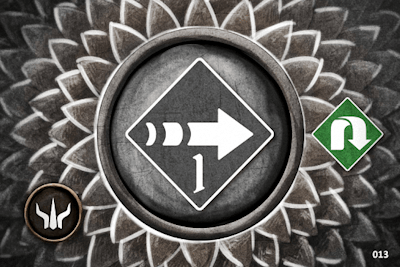
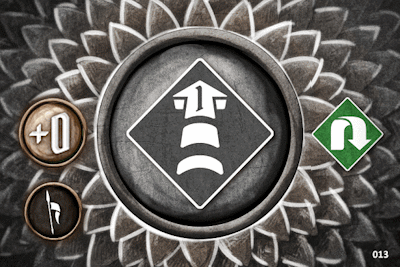
gh2e special faction support

diff --git a/frosthaven_assistant/lib/Layout/menus/modifier_deck_menu.dart b/frosthaven_assistant/lib/Layout/menus/modifier_deck_menu.dart
@@ -31,6 +31,7 @@ import '../../Resource/state/game_state.dart';
 import '../../Resource/ui_utils.dart';
 import '../../services/service_locator.dart';
 import '../counter_button.dart';
+import 'gh2e_faction_amd_card_menu.dart';
 
 class ModifierDeckMenu extends StatefulWidget {
   const ModifierDeckMenu({super.key, required this.name});
@@ -444,7 +445,12 @@ class ModifierDeckMenuState extends State<ModifierDeckMenu> {
                                     icon:
                                         Image.asset("assets/images/demons.png"),
                                     onPressed: () {
-                                      //todo: open menu
+                                      openDialog(
+                                          context,
+                                          GH2eFactionAMDCardMenu(
+                                            faction: "Demons",
+                                            name: widget.name,
+                                          ));
                                     },
                                   ),
                                 if (isCharacter &&
@@ -454,7 +460,12 @@ class ModifierDeckMenuState extends State<ModifierDeckMenu> {
                                     icon: Image.asset(
                                         "assets/images/merchant-guild.png"),
                                     onPressed: () {
-                                      //todo: open menu
+                                      openDialog(
+                                          context,
+                                          GH2eFactionAMDCardMenu(
+                                            faction: "Merchant-Guild",
+                                            name: widget.name,
+                                          ));
                                     },
                                   ),
                                 if (isCharacter &&
@@ -464,7 +475,12 @@ class ModifierDeckMenuState extends State<ModifierDeckMenu> {
                                     icon: Image.asset(
                                         "assets/images/military.png"),
                                     onPressed: () {
-                                      //todo: open menu
+                                      openDialog(
+                                          context,
+                                          GH2eFactionAMDCardMenu(
+                                            faction: "Military",
+                                            name: widget.name,
+                                          ));
                                     },
                                   ),
                                 CounterButton(
@@ -573,7 +589,7 @@ class ModifierDeckMenuState extends State<ModifierDeckMenu> {
                                   CounterButton(
                                       notifier:
                                           deck.getRemovable("vi-enfeeble"),
-                                      command: ChangeEmpowerCommand.deck(
+                                      command: ChangeEnfeebleCommand.deck(
                                           deck, "vi-enfeeble"),
                                       maxValue: 10,
                                       image:
@@ -590,7 +606,7 @@ class ModifierDeckMenuState extends State<ModifierDeckMenu> {
                                   CounterButton(
                                       notifier:
                                           deck.getRemovable("vi-gr-enfeeble"),
-                                      command: ChangeEmpowerCommand.deck(
+                                      command: ChangeEnfeebleCommand.deck(
                                           deck, "vi-gr-enfeeble"),
                                       maxValue: 5,
                                       image:
@@ -606,7 +622,7 @@ class ModifierDeckMenuState extends State<ModifierDeckMenu> {
                                   CounterButton(
                                       notifier:
                                           deck.getRemovable("li-enfeeble"),
-                                      command: ChangeEmpowerCommand.deck(
+                                      command: ChangeEnfeebleCommand.deck(
                                           deck, "li-enfeeble"),
                                       maxValue: 15,
                                       image:

diff --git a/frosthaven_assistant/lib/Layout/menus/gh2e_faction_amd_card_menu.dart b/frosthaven_assistant/lib/Layout/menus/gh2e_faction_amd_card_menu.dart
@@ -1,0 +1,120 @@
+import 'package:flutter/material.dart';
+import 'package:frosthaven_assistant/Layout/modifier_card_widget.dart';
+import 'package:frosthaven_assistant/Resource/commands/add_faction_card_command.dart';
+
+import '../../Resource/color_matrices.dart';
+import '../../Resource/settings.dart';
+import '../../Resource/state/game_state.dart';
+import '../../Resource/ui_utils.dart';
+import '../../services/service_locator.dart';
+
+class GH2eFactionAMDCardMenu extends StatefulWidget {
+  const GH2eFactionAMDCardMenu(
+      {super.key, required this.faction, required this.name});
+
+  final String faction;
+  final String name;
+
+  @override
+  GH2eFactionAMDCardMenuState createState() => GH2eFactionAMDCardMenuState();
+}
+
+class GH2eFactionAMDCardMenuState extends State<GH2eFactionAMDCardMenu> {
+  final List<ModifierCard> _factionCards = [];
+
+  String? addedCard;
+
+  @override
+  initState() {
+    super.initState();
+    _factionCards.clear();
+    _factionCards.addAll(GameMethods.getFactionCards(widget.faction));
+  }
+
+  @override
+  Widget build(BuildContext context) {
+    final screenSize = MediaQuery.of(context).size;
+    double scale = 3;
+    final cardWidth = 3.5 * 58.6666;
+    if (screenSize.width < cardWidth * 2) {
+      scale = 3 * (screenSize.width / (cardWidth * 2));
+    }
+
+    return Column(
+        mainAxisSize: MainAxisSize.min,
+        mainAxisAlignment: MainAxisAlignment.center,
+        children: [
+          //add 4 cards in grid
+          Wrap(
+            runSpacing: 2,
+            spacing: 2,
+            children: [
+              for (var item in _factionCards)
+                InkWell(
+                    onTap: () {
+                      if (addedCard == null &&
+                          !GameMethods.isCardInAnyCharacterDeck(item.gfx)) {
+                        getIt<GameState>().action(
+                            AddFactionCardCommand(widget.name, item.gfx, true));
+                        setState(() {
+                          addedCard = item.gfx;
+                        });
+                      }
+                    },
+                    child: ColorFiltered(
+                        colorFilter:
+                            !GameMethods.isCardInAnyCharacterDeck(item.gfx)
+                                ? ColorFilter.matrix(identity)
+                                : ColorFilter.matrix(grayScale),
+                        child:
+                            ModifierCardWidget.buildFront(item, "", scale, 1))),
+            ],
+          ),
+          const SizedBox(
+            height: 20,
+          ),
+          Container(
+              width: 300,
+              height: 180,
+              decoration: BoxDecoration(
+                image: DecorationImage(
+                  colorFilter: ColorFilter.mode(
+                      Colors.black.withOpacity(0.8), BlendMode.dstATop),
+                  image: AssetImage(getIt<Settings>().darkMode.value
+                      ? 'assets/images/bg/dark_bg.png'
+                      : 'assets/images/bg/white_bg.png'),
+                  fit: BoxFit.cover,
+                ),
+              ),
+              child: Column(children: [
+                SizedBox(
+                  height: addedCard == null ? 20 : 30,
+                ),
+                if (addedCard == null)
+                  Text("Tap Card to add to your deck",
+                      style: getTitleTextStyle(1)),
+                if (addedCard != null)
+                  TextButton(
+                      onPressed: () {
+                        final cardToRemove = addedCard;
+                        if (cardToRemove != null) {
+                          getIt<GameState>().action(AddFactionCardCommand(
+                              widget.name, cardToRemove, false));
+                        }
+                        setState(() {
+                          addedCard = null;
+                        });
+                      },
+                      child: const Text("Remove card from your deck?",
+                          textAlign: TextAlign.center,
+                          style: TextStyle(fontSize: 20))),
+                const SizedBox(
+                  height: 20,
+                ),
+                const SizedBox(
+                  height: 20,
+                ),
+              ]))
+        ]);
+  }
+}

diff --git a/frosthaven_assistant/lib/Layout/menus/status_menu.dart b/frosthaven_assistant/lib/Layout/menus/status_menu.dart
@@ -332,7 +332,8 @@ class StatusMenuState extends State<StatusMenu> {
                 child: Row(
                     mainAxisAlignment: MainAxisAlignment.spaceAround,
                     children: [
-                      Text(name, style: getTitleTextStyle(scale)),
+                      Text(name,
+                          style: getTitleTextStyle(getModalMenuScale(context))),
                       if (figure is MonsterInstance)
                         ValueListenableBuilder<int>(
                             valueListenable: getIt<GameState>().updateList,
@@ -622,7 +623,7 @@ class StatusMenuState extends State<StatusMenu> {
                             hasVimthreader)
                           CounterButton(
                               notifier: deck.getRemovable("vi-enfeeble"),
-                              command: ChangeEmpowerCommand.deck(
+                              command: ChangeEnfeebleCommand.deck(
                                   deck, "vi-enfeeble"),
                               maxValue: 10,
                               image: "assets/images/abilities/enfeeble2.png",
@@ -640,7 +641,7 @@ class StatusMenuState extends State<StatusMenu> {
                             hasVimthreader)
                           CounterButton(
                               notifier: deck.getRemovable("vi-gr-enfeeble"),
-                              command: ChangeEmpowerCommand.deck(
+                              command: ChangeEnfeebleCommand.deck(
                                   deck, "vi-gr-enfeeble"),
                               maxValue: 5,
                               image:
@@ -656,7 +657,7 @@ class StatusMenuState extends State<StatusMenu> {
                             hasLifespeaker)
                           CounterButton(
                               notifier: deck.getRemovable("li-enfeeble"),
-                              command: ChangeEmpowerCommand
+                              command: ChangeEnfeebleCommand
                                   .deck(deck, "li-enfeeble"),
                               maxValue: 15,
                               image: "assets/images/abilities/enfeeble2.png",

diff --git a/frosthaven_assistant/lib/Resource/game_methods.dart b/frosthaven_assistant/lib/Resource/game_methods.dart
@@ -2077,6 +2077,41 @@ class GameMethods {
     return hasLootDeck;
   }
 
+  static List<ModifierCard> getFactionCards(String faction) {
+    List<ModifierCard> retVal = [];
+    if (faction == "Demons") {
+      retVal.add(ModifierCard(CardType.add, "Demons-perks/plus1any"));
+      retVal
+          .add(ModifierCard(CardType.add, "Demons-perks/plus1retaliate1flip"));
+      retVal.add(ModifierCard(CardType.add, "Demons-perks/plus0wardallyflip"));
+      retVal.add(ModifierCard(CardType.add, "Demons-perks/unique/fuck3"));
+    } else if (faction == "Merchant-Guild") {
+      retVal.add(ModifierCard(CardType.add, "Merchant-Guild-perks/plus1curse"));
+      retVal.add(ModifierCard(CardType.add, "Merchant-Guild-perks/plus1wound"));
+      retVal.add(
+          ModifierCard(CardType.add, "Merchant-Guild-perks/plus0heal2flip"));
+      retVal
+          .add(ModifierCard(CardType.add, "Merchant-Guild-perks/unique/fuck2"));
+    } else if (faction == "Military") {
+      retVal.add(
+          ModifierCard(CardType.add, "Military-perks/plus1strengthenally"));
+      retVal.add(ModifierCard(CardType.add, "Military-perks/plus1shield1flip"));
+      retVal.add(ModifierCard(CardType.add, "Military-perks/plus1push2flip"));
+      retVal.add(ModifierCard(CardType.add, "Military-perks/unique/fuck1"));
+    }
+    return retVal;
+  }
+
+  static bool isCardInAnyCharacterDeck(String gfx) {
+    final characters = getCurrentCharacters();
+    for (var item in characters) {
+      if (item.characterState.modifierDeck.hasCard(gfx)) {
+        return true;
+      }
+    }
+    return false;
+  }
+
   static bool hasRetaliate(Monster monster, MonsterInstance figure) {
     return _monsterHasConditionOnCards(monster, figure, "%retaliate%");
   }

diff --git a/frosthaven_assistant/lib/Layout/modifier_card_widget.dart b/frosthaven_assistant/lib/Layout/modifier_card_widget.dart
@@ -21,6 +21,7 @@ class ModifierCardWidget extends StatelessWidget {
     bool isCharacter = name.isNotEmpty && !allies;
     bool imbue = card.gfx.contains("imbue");
     bool imbue2 = card.gfx.contains("imbue2");
+
     bool hasExtra = card.gfx.startsWith("P") || allies || imbue;
     String gfx = card.gfx;
     String extraGfx = "";
@@ -38,6 +39,20 @@ class ModifierCardWidget extends StatelessWidget {
       extraGfx = 'assets/images/attack/allies.png';
     } else if (isCharacter) {
       extraGfx = 'assets/images/class-icons/$name.png';
+    }
+
+    if (card.gfx.startsWith("Demons")) {
+      gfx = gfx.replaceAll("Demons-", "");
+      extraGfx = 'assets/images/Demons.png';
+      hasExtra = true;
+    } else if (card.gfx.startsWith("Merchant-Guild")) {
+      gfx = gfx.replaceAll("Merchant-Guild-", "");
+      extraGfx = 'assets/images/Merchant-Guild.png';
+      hasExtra = true;
+    } else if (card.gfx.startsWith("Military")) {
+      gfx = gfx.replaceAll("Military-", "");
+      extraGfx = 'assets/images/Military.png';
+      hasExtra = true;
     }
 
     //deal with perks. this part will be subject to change when/if data changes to accommodate building cards from parts

diff --git a/frosthaven_assistant/lib/Resource/commands/add_faction_card_command.dart b/frosthaven_assistant/lib/Resource/commands/add_faction_card_command.dart
@@ -1,0 +1,30 @@
+import '../../services/service_locator.dart';
+import '../state/game_state.dart';
+
+class AddFactionCardCommand extends Command {
+  final String characterId;
+  final String cardId;
+  final bool add;
+  AddFactionCardCommand(this.characterId, this.cardId, this.add);
+
+  @override
+  void execute() {
+    ModifierDeck? deck =
+        GameMethods.getModifierDeck(characterId, getIt<GameState>());
+    if (add) {
+      deck.addCard(stateAccess, cardId, CardType.add);
+    } else {
+      deck.removeCard(stateAccess, cardId);
+    }
+  }
+
+  @override
+  void undo() {}
+
+  @override
+  String describe() {
+    return add
+        ? "$characterId add faction card"
+        : "$characterId remove faction card";
+  }
+}

diff --git a/frosthaven_assistant/lib/Resource/commands/add_condition_command.dart b/frosthaven_assistant/lib/Resource/commands/add_condition_command.dart
@@ -16,7 +16,7 @@ class AddConditionCommand extends Command {
       newList.add(condition);
       figure.conditions.value = newList;
 
-      if(condition == Condition.chill) {
+      if (condition == Condition.chill) {
         figure.setChill(stateAccess, figure.chill.value + 1);
       }
 
@@ -37,10 +37,6 @@ class AddConditionCommand extends Command {
 
   @override
   void undo() {
-    /*List<Condition> newList = [];
-    newList.addAll(figure.conditions.value);
-    newList.remove(condition);
-    figure.conditions.value = newList;*/
     getIt<GameState>().updateList.value++;
   }
 
